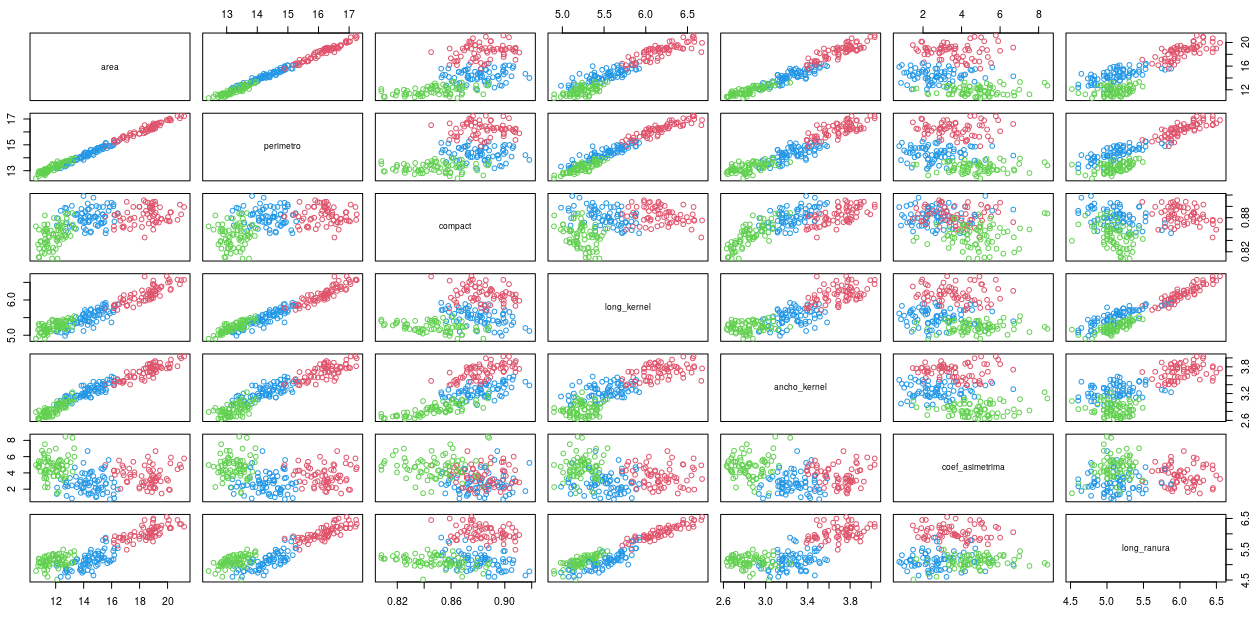
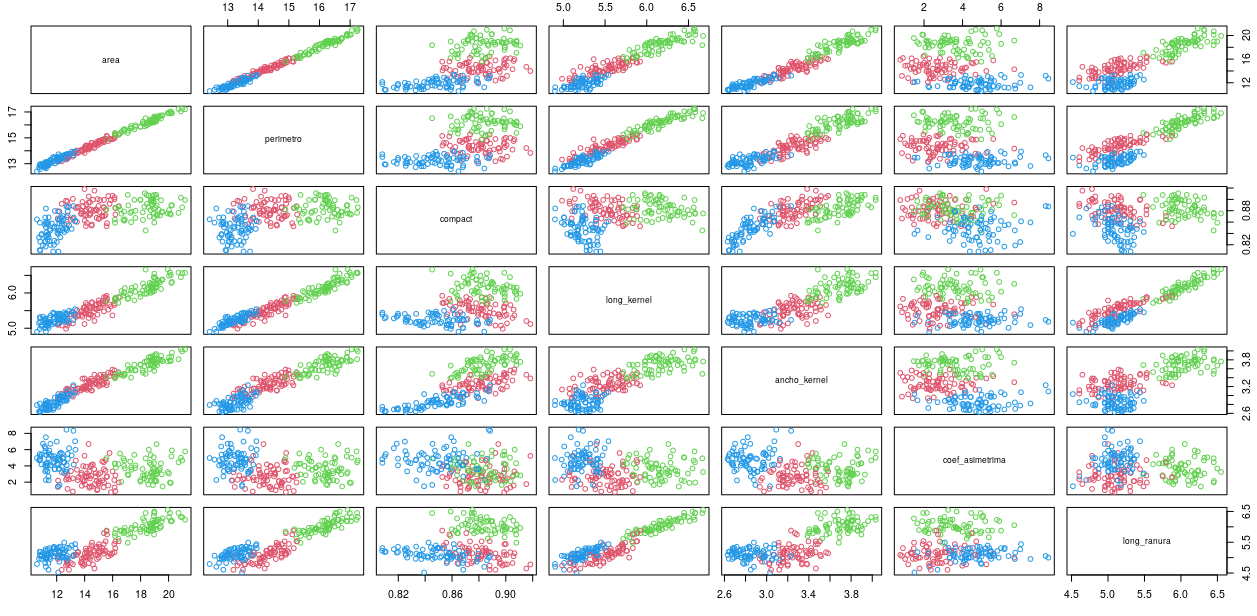
acomodo el scatter

diff --git a/TP05/parte_2/README.md b/TP05/parte_2/README.md
@@ -210,11 +210,12 @@ Por lo tanto, las caracteristicas distintivas del cada uno de los clusters resul
 
 Un ultimo analisis, si vemos el gráfico de los clusters, y el scatter, podríamos sacar las siguientes conclusiones
 
-* Los elementos del cluster 0 (verde), tienen el menor area, perimetro, longitud del grano y ancho del grano.
+* Los elementos del cluster 0 (verde), tienen el mayor area, perimetro, longitud del grano y ancho del grano.
 
-* Los elementos del cluster 1 (azul), tienen un tamaño intermedio de area, perimetro, longitud del grano y ancho del grano.
+* Los elementos del cluster 1 (azul), tienen el menor area, perimetro, longitud del grano y ancho del grano.
 
-* Los elementos del cluster 2 (rojo), tienen el mayor area, perimetro, longitud del grano y ancho del grano.
+* Los elementos del cluster 2 (rojo), tienen un tamaño intermedio de area, perimetro, longitud del grano y ancho del grano.
+
 
 
 #### 5. Ahora, trabaje sobre el dataset abandono_cuantitativo.csv:
